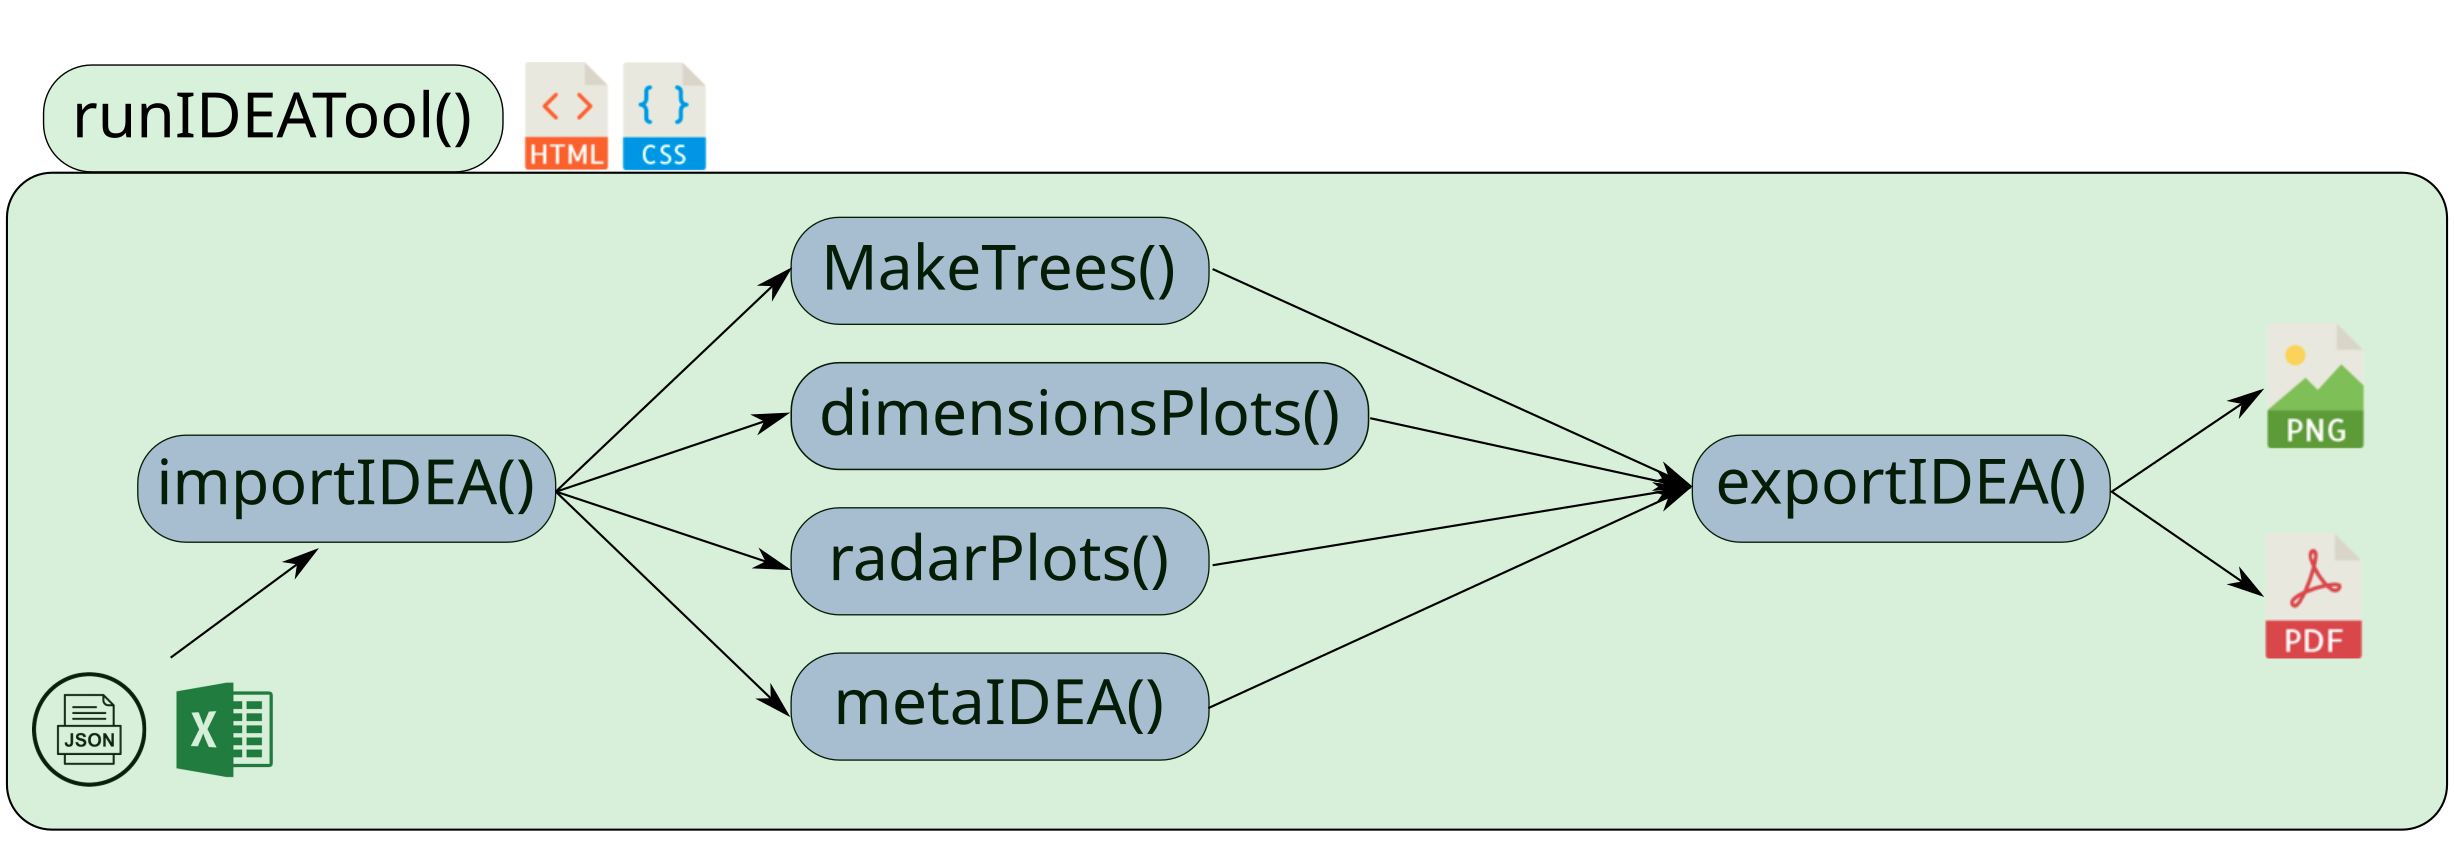
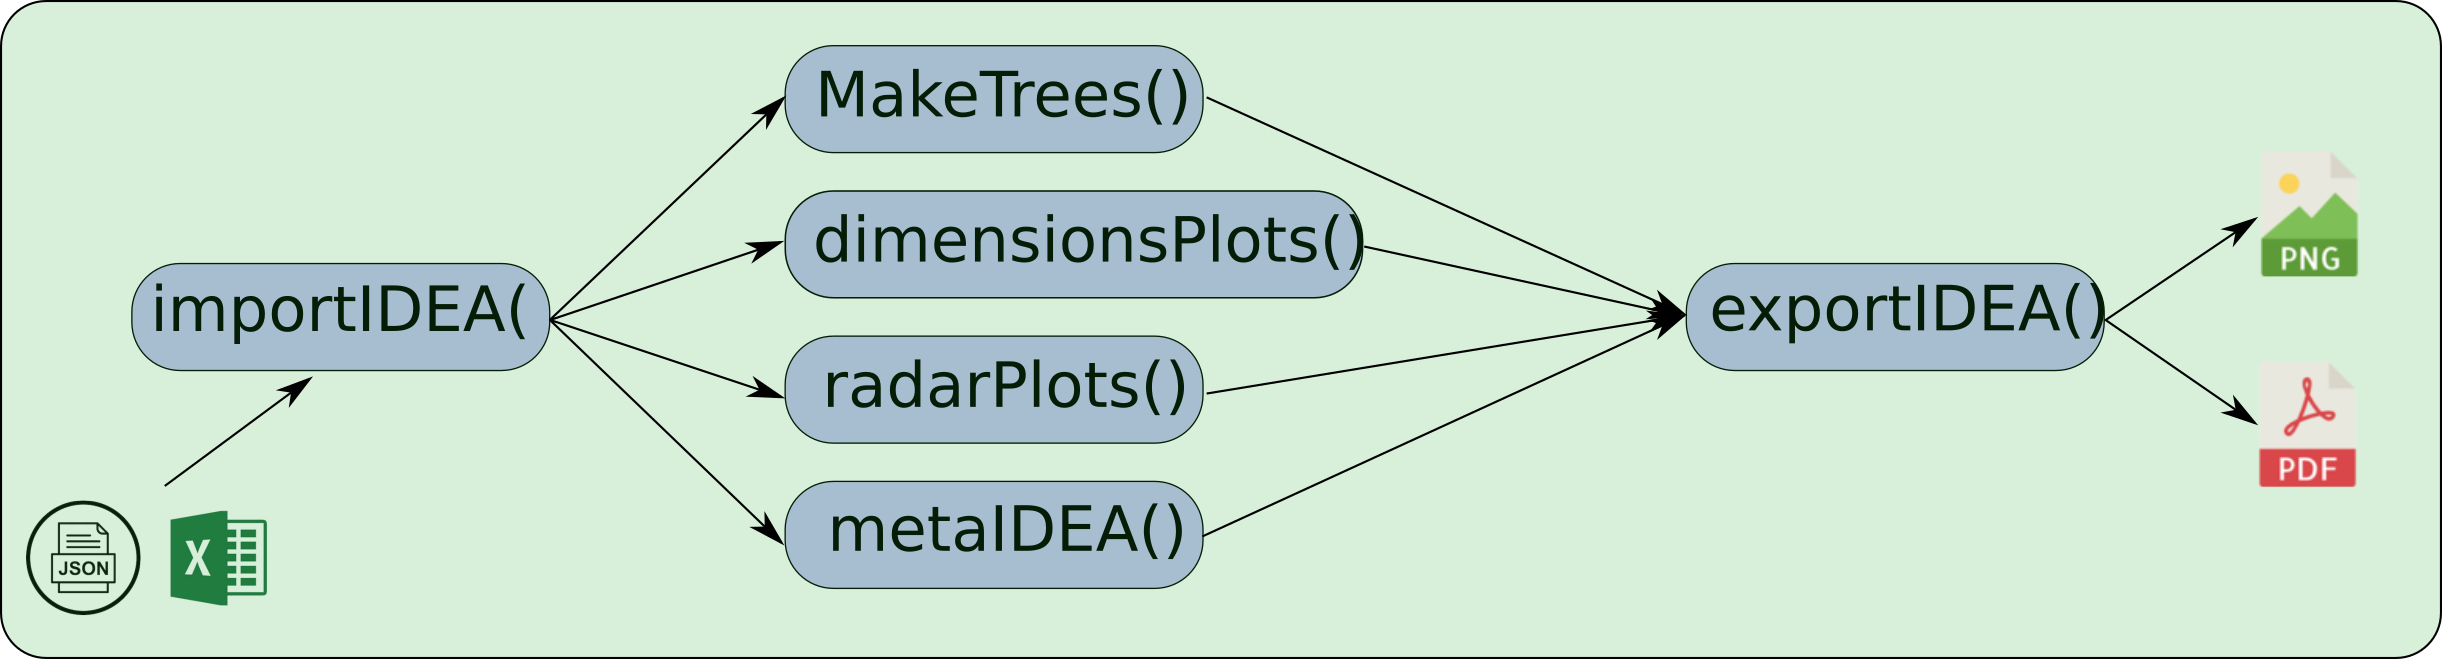
Final update for release

diff --git a/README.md b/README.md
@@ -22,10 +22,9 @@ devtools::install_github("davidcarayon/IDEATools")
 
 # Description des modules
 
-Sept principaux modules ont été développés et s’interconnectent tout au
+Six principaux modules ont été développés et s’interconnectent tout au
 long de la chaîne de traitement depuis l’import des calculateurs jusqu’à
-la visualisation des résultats. Le septième module produit une interface
-web interactive mobilisant l’ensemble des 6 autres modules.
+la visualisation des résultats.
 
 ![](www/dessin_modules.png)
 
@@ -344,65 +343,6 @@ MakeTrees(IDEAdata) %>% exportIDEA()
 
 radarPlots(IDEAdata) %>% exportIDEA()
 ```
-
-# Application web interactive
-
-Afin de simplifier l’utilisation de ce package qui, en l’état, réservé
-aux utilisateurs du langage R, un applicatif de calcul basé sur la
-librairie `{shiny}` a été également développé et intégré dans ce
-package. Celui-ci peut être exécuté d’une simple commande qui va ouvrir
-une seconde page Rstudio, qui peut être ensuite ouverte dans votre
-navigateur web préféré.
-
-Shiny est un package R permettant de produire des applications
-interactives pour le web à partir de code R. Pour faire simple, le
-package va traduire le code R en mélange de code HTML/CSS/Javascript,
-les langages du web et de l’interactivité. Comme tout produit R, il est
-donc entièrement personnalisable à condition de disposer de certaines
-compétences en HTML/CSS/JS. Son principal avantage est donc de mêler la
-puissance calculatoire et statistique de R avec des format de diffusion
-et communication bien plus attrayant pour un public non
-chercheur/ingénieur.
-
-L’application peut être lancée par cette simple commande :
-
-``` r
-
-runIDEATool()
-```
-
-Après avoir importé un calculateur via le bouton d’import en haut à
-gauche, l’application devrait après un bref temps de chargement
-ressembler à la capture d’écran ci-dessus :
-
-![](www/capture_shinyIDEA_4compact.png)
-
-Une fois l’exploration des résultats terminés, ceux-ci peuvent
-maintenant être exportés de deux façons :
-
-  - Par le biais d’un rapport pré-édité (environ 16 pages) qui sera
-    automatiquement mis à jour avec les données relatives au calculateur
-    importé. Celui-ci présente d’abord les métadonnées générales, puis
-    affiche successivement l’ensemble des résultats relatifs aux
-    propriétés et aux dimensions :
-
-![](www/app3.png)
-
-La technologie utilisée est `{rmarkdown}` qui fait appel à un moteur
-`LaTeX` pour produire le rapport, ce qui peut expliquer un temps de
-rendu assez long selon l’ordinateur utilisé (jusqu’à 30 secondes).
-
-  - Par le téléchargement d’une archive .zip contenant l’ensemble des
-    figures présentes dans le rapport. Afin d’éviter tout conflit de
-    fichiers, les figures sont à nouveau produites avant d’être
-    encapsulées et téléchargées, ce qui demande quelques secondes de
-    calcul côté serveur. Ce délai reste néanmoins plus court que pour la
-    production du rapport automatisé.
-
-Cette application n’est actuellement disponible que pour un utilisateur
-du package R. Elle n’est pas encore disponible en ligne car elle
-nécessite de disposer d’un serveur pour l’héberger. Les solutions
-d’hébergement sont actuellement en cours de prospection.
 
 # A propos
 
